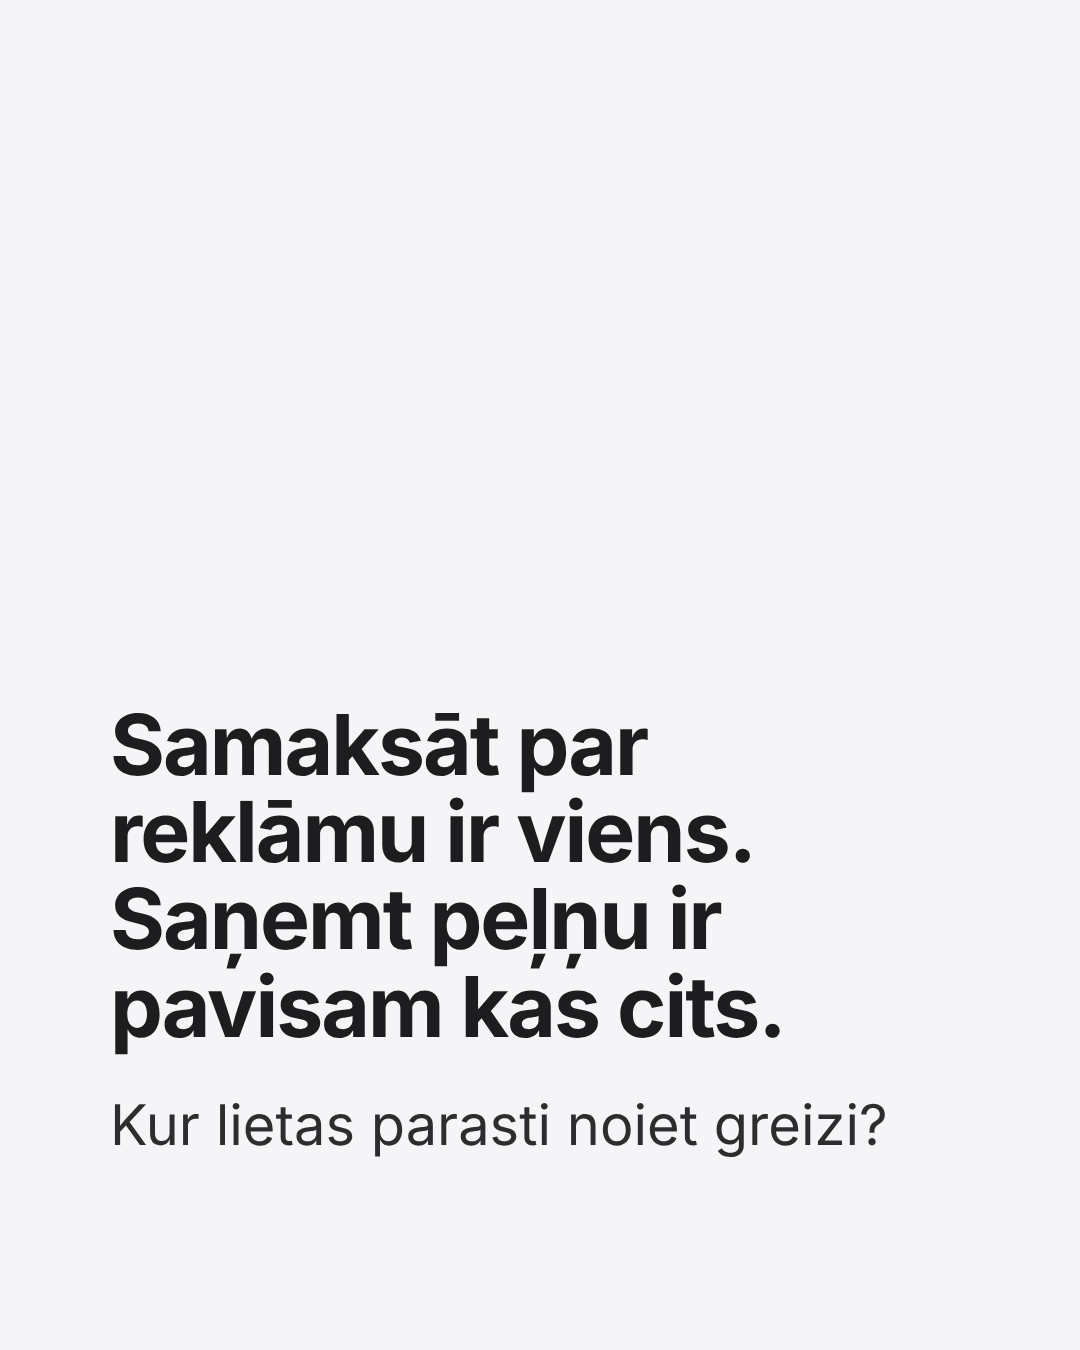
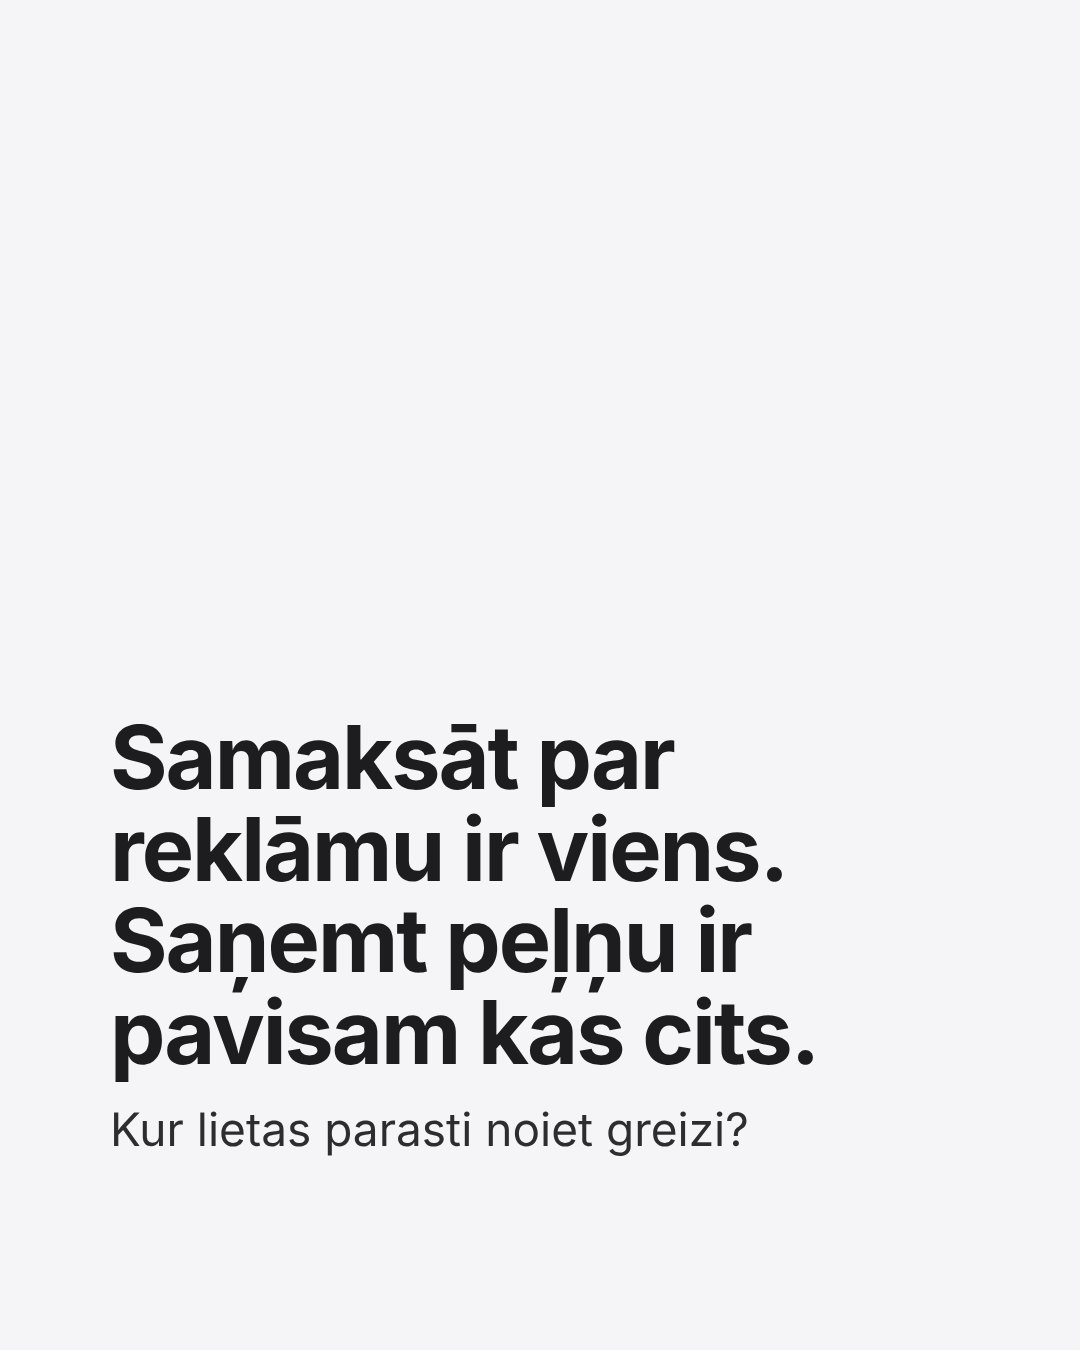
Meta carousel slide 2: closer headline/subline ratio and tighter gap
Claude-Session: https://claude.ai/code/session_01BfJAaEZY2EfD7nu2Y1Q1pB

Changed region(s): [[0.0917, 0.5289, 0.825, 0.8711]]

diff --git a/brand/zimols/render.js b/brand/zimols/render.js
@@ -105,8 +105,8 @@ function slide(s) {
   }
   if (s.type === 'question') {
     const top = s.top ? `<div class="display" style="font-size:${s.topSize || 76}px;margin-bottom:44px">${s.top}</div>` : '';
-    const head = s.plain ? `<div class="display" style="font-size:${s.headlineSize || 120}px">${s.headline}</div>` : `<div class="qpill">${s.headline}</div>`;
-    return `<div class="s bg-${s.bg || 'paper'}"><div class="pad">${top}${head}${s.sub ? `<div class="sub" style="margin-top:40px">${s.sub}</div>` : ''}${s.sub2 ? `<div style="margin-top:36px;font-size:42px;font-weight:400;color:${C.ink}">${s.sub2}</div>` : ''}</div></div>`;
+    const head = s.plain ? `<div class="display" style="font-size:${s.headlineSize || 120}px;line-height:1.04">${s.headline}</div>` : `<div class="qpill">${s.headline}</div>`;
+    return `<div class="s bg-${s.bg || 'paper'}"><div class="pad">${top}${head}${s.sub ? `<div class="sub" style="margin-top:${s.subGap ?? 40}px">${s.sub}</div>` : ''}${s.sub2 ? `<div style="margin-top:36px;font-size:42px;font-weight:400;color:${C.ink}">${s.sub2}</div>` : ''}</div></div>`;
   }
   throw new Error('unknown slide type ' + s.type);
 }
